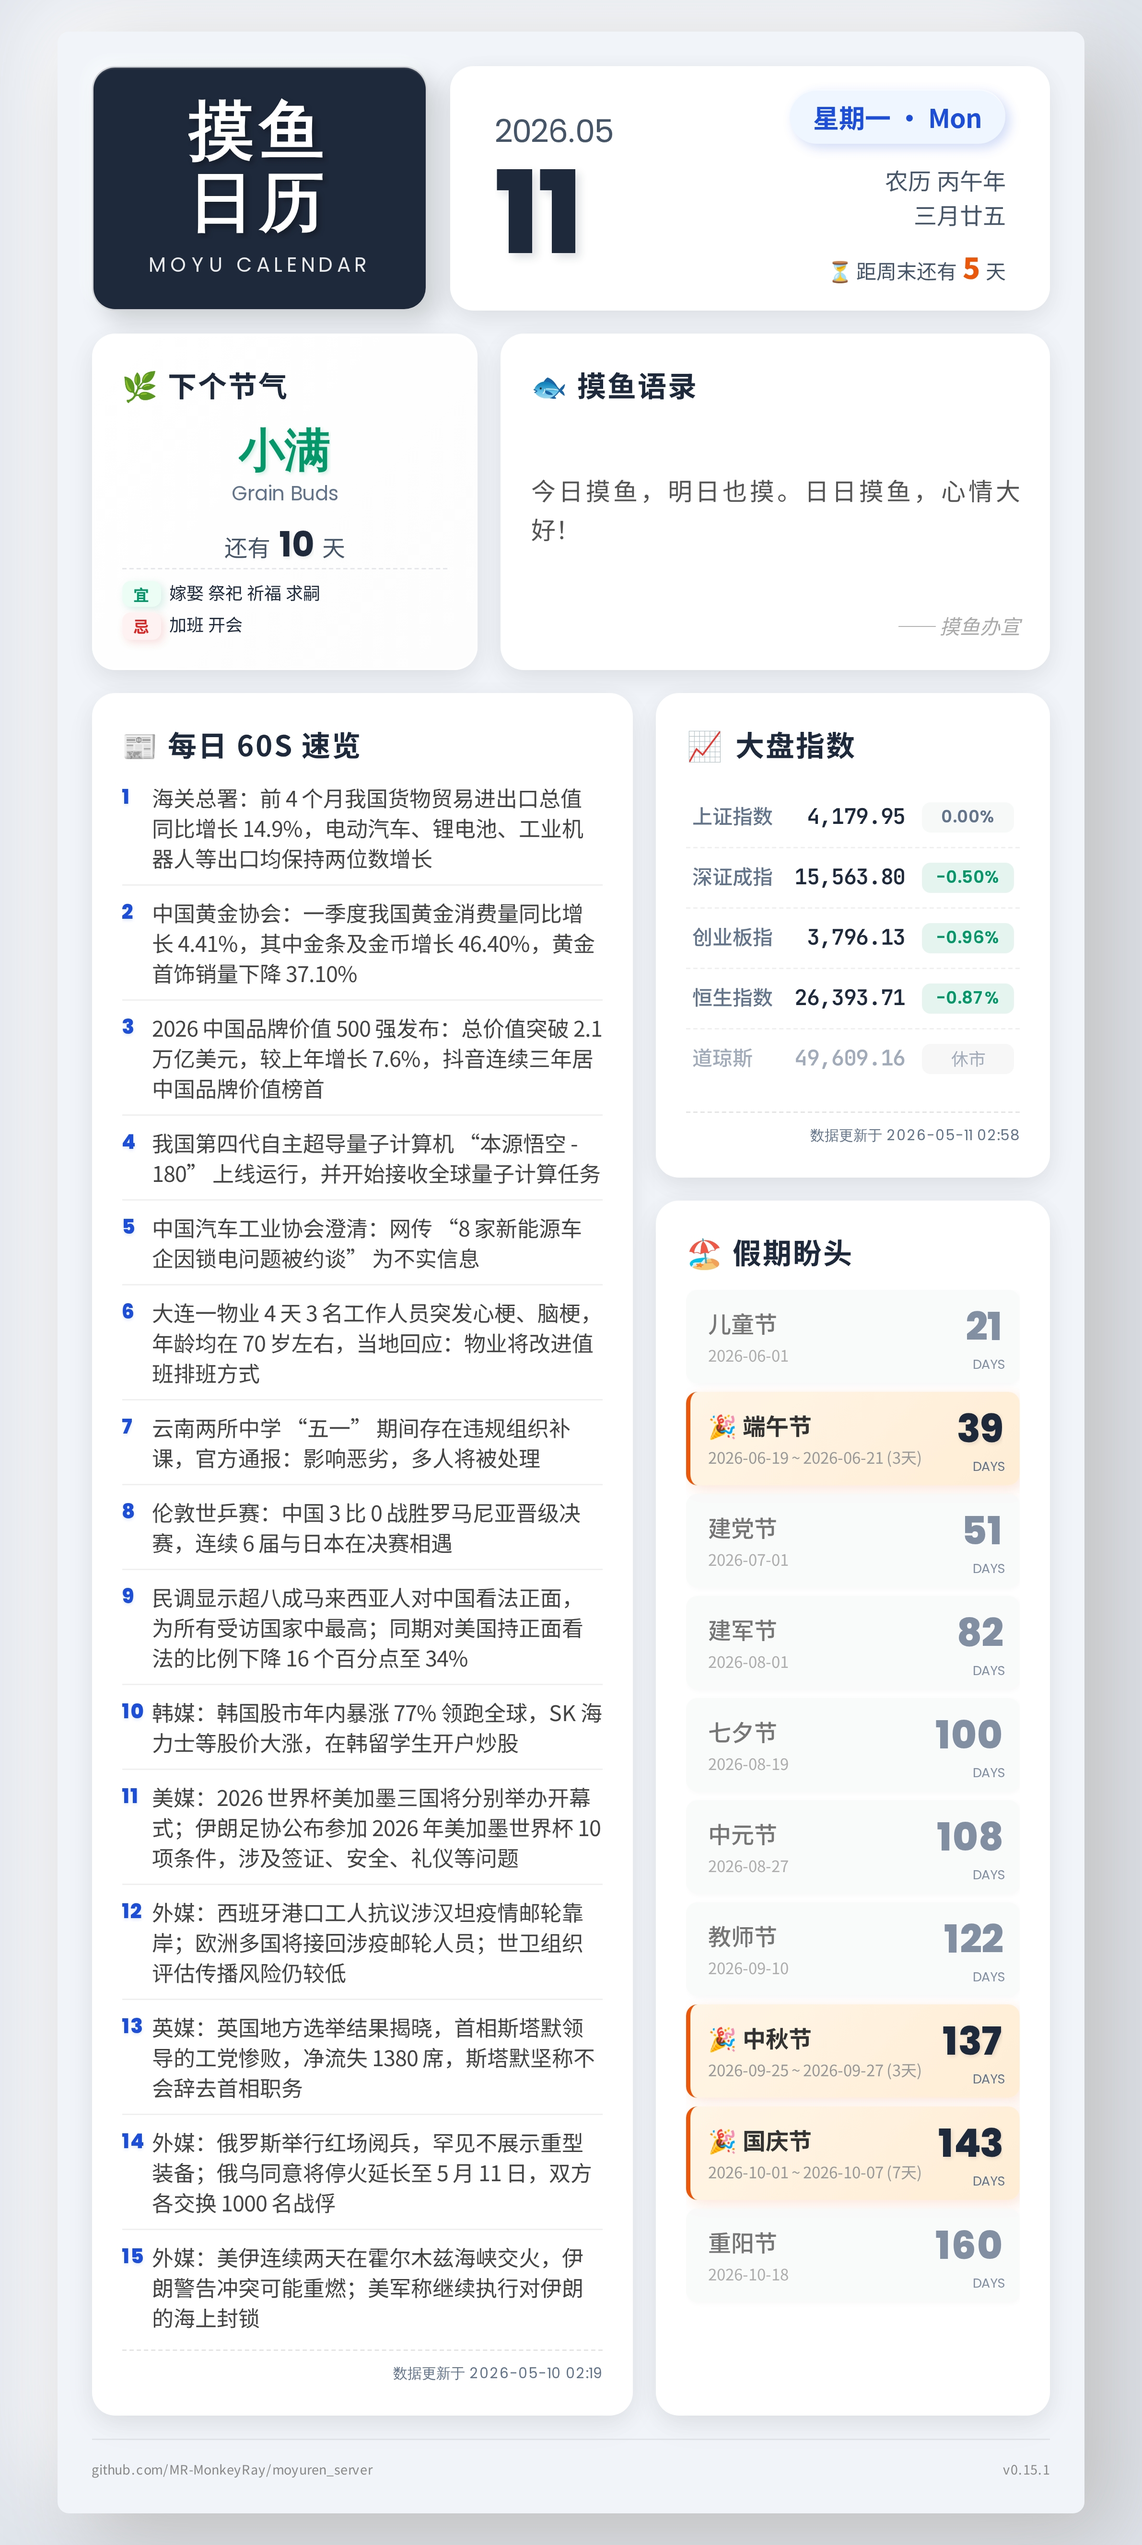
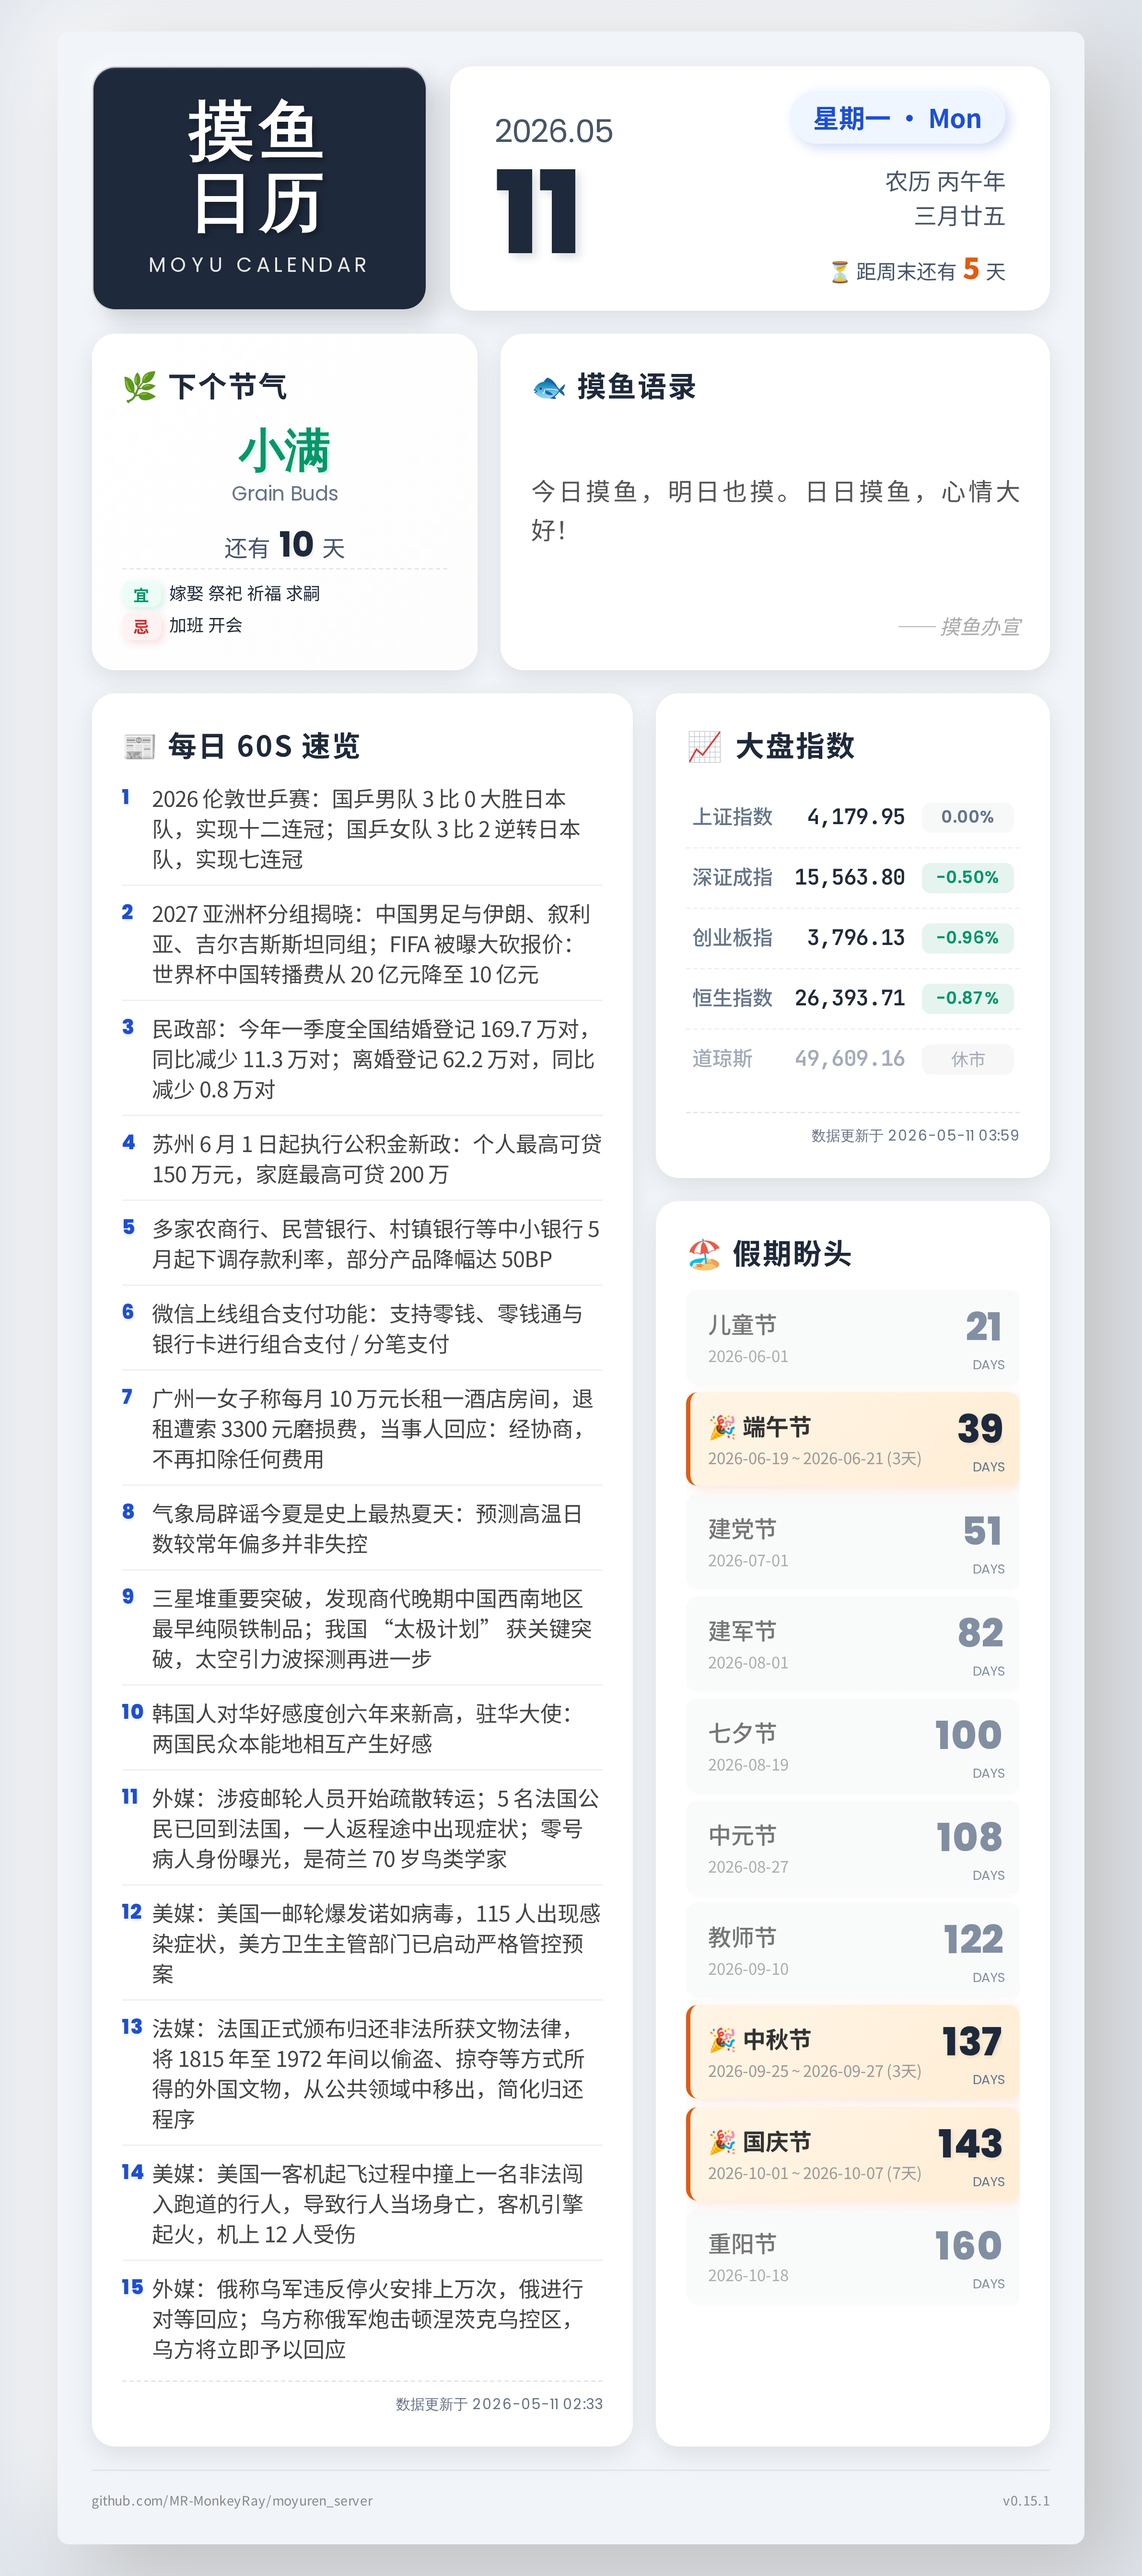
chore: publish 2026-05-11 (efec0ba)

diff --git a/2026-05-11/data.md b/2026-05-11/data.md
@@ -19,24 +19,24 @@
 
 ## 今日热点
 
-1. 海关总署：前 4 个月我国货物贸易进出口总值同比增长 14.9%，电动汽车、锂电池、工业机器人等出口均保持两位数增长
-2. 中国黄金协会：一季度我国黄金消费量同比增长 4.41%，其中金条及金币增长 46.40%，黄金首饰销量下降 37.10%
-3. 2026 中国品牌价值 500 强发布：总价值突破 2.1 万亿美元，较上年增长 7.6%，抖音连续三年居中国品牌价值榜首
-4. 我国第四代自主超导量子计算机 “本源悟空 - 180” 上线运行，并开始接收全球量子计算任务
-5. 中国汽车工业协会澄清：网传 “8 家新能源车企因锁电问题被约谈” 为不实信息
-6. 大连一物业 4 天 3 名工作人员突发心梗、脑梗，年龄均在 70 岁左右，当地回应：物业将改进值班排班方式
-7. 云南两所中学 “五一” 期间存在违规组织补课，官方通报：影响恶劣，多人将被处理
-8. 伦敦世乒赛：中国 3 比 0 战胜罗马尼亚晋级决赛，连续 6 届与日本在决赛相遇
-9. 民调显示超八成马来西亚人对中国看法正面，为所有受访国家中最高；同期对美国持正面看法的比例下降 16 个百分点至 34%
-10. 韩媒：韩国股市年内暴涨 77% 领跑全球，SK 海力士等股价大涨，在韩留学生开户炒股
-11. 美媒：2026 世界杯美加墨三国将分别举办开幕式；伊朗足协公布参加 2026 年美加墨世界杯 10 项条件，涉及签证、安全、礼仪等问题
-12. 外媒：西班牙港口工人抗议涉汉坦疫情邮轮靠岸；欧洲多国将接回涉疫邮轮人员；世卫组织评估传播风险仍较低
-13. 英媒：英国地方选举结果揭晓，首相斯塔默领导的工党惨败，净流失 1380 席，斯塔默坚称不会辞去首相职务
-14. 外媒：俄罗斯举行红场阅兵，罕见不展示重型装备；俄乌同意将停火延长至 5 月 11 日，双方各交换 1000 名战俘
-15. 外媒：美伊连续两天在霍尔木兹海峡交火，伊朗警告冲突可能重燃；美军称继续执行对伊朗的海上封锁
+1. 2026 伦敦世乒赛：国乒男队 3 比 0 大胜日本队，实现十二连冠；国乒女队 3 比 2 逆转日本队，实现七连冠
+2. 2027 亚洲杯分组揭晓：中国男足与伊朗、叙利亚、吉尔吉斯斯坦同组；FIFA 被曝大砍报价：世界杯中国转播费从 20 亿元降至 10 亿元
+3. 民政部：今年一季度全国结婚登记 169.7 万对，同比减少 11.3 万对；离婚登记 62.2 万对，同比减少 0.8 万对
+4. 苏州 6 月 1 日起执行公积金新政：个人最高可贷 150 万元，家庭最高可贷 200 万
+5. 多家农商行、民营银行、村镇银行等中小银行 5 月起下调存款利率，部分产品降幅达 50BP
+6. 微信上线组合支付功能：支持零钱、零钱通与银行卡进行组合支付 / 分笔支付
+7. 广州一女子称每月 10 万元长租一酒店房间，退租遭索 3300 元磨损费，当事人回应：经协商，不再扣除任何费用
+8. 气象局辟谣今夏是史上最热夏天：预测高温日数较常年偏多并非失控
+9. 三星堆重要突破，发现商代晚期中国西南地区最早纯陨铁制品；我国 “太极计划” 获关键突破，太空引力波探测再进一步
+10. 韩国人对华好感度创六年来新高，驻华大使：两国民众本能地相互产生好感
+11. 外媒：涉疫邮轮人员开始疏散转运；5 名法国公民已回到法国，一人返程途中出现症状；零号病人身份曝光，是荷兰 70 岁鸟类学家
+12. 美媒：美国一邮轮爆发诺如病毒，115 人出现感染症状，美方卫生主管部门已启动严格管控预案
+13. 法媒：法国正式颁布归还非法所获文物法律，将 1815 年至 1972 年间以偷盗、掠夺等方式所得的外国文物，从公共领域中移出，简化归还程序
+14. 美媒：美国一客机起飞过程中撞上一名非法闯入跑道的行人，导致行人当场身亡，客机引擎起火，机上 12 人受伤
+15. 外媒：俄称乌军违反停火安排上万次，俄进行对等回应；乌方称俄军炮击顿涅茨克乌控区，乌方将立即予以回应
 
 > **🐟 摸鱼语录**
 >
 > 今日摸鱼，明日也摸。日日摸鱼，心情大好！
 
-*更新时间: 2026/05/11 02:58:06*
+*更新时间: 2026/05/11 03:59:43*

diff --git a/latest.md b/latest.md
@@ -19,24 +19,24 @@
 
 ## 今日热点
 
-1. 海关总署：前 4 个月我国货物贸易进出口总值同比增长 14.9%，电动汽车、锂电池、工业机器人等出口均保持两位数增长
-2. 中国黄金协会：一季度我国黄金消费量同比增长 4.41%，其中金条及金币增长 46.40%，黄金首饰销量下降 37.10%
-3. 2026 中国品牌价值 500 强发布：总价值突破 2.1 万亿美元，较上年增长 7.6%，抖音连续三年居中国品牌价值榜首
-4. 我国第四代自主超导量子计算机 “本源悟空 - 180” 上线运行，并开始接收全球量子计算任务
-5. 中国汽车工业协会澄清：网传 “8 家新能源车企因锁电问题被约谈” 为不实信息
-6. 大连一物业 4 天 3 名工作人员突发心梗、脑梗，年龄均在 70 岁左右，当地回应：物业将改进值班排班方式
-7. 云南两所中学 “五一” 期间存在违规组织补课，官方通报：影响恶劣，多人将被处理
-8. 伦敦世乒赛：中国 3 比 0 战胜罗马尼亚晋级决赛，连续 6 届与日本在决赛相遇
-9. 民调显示超八成马来西亚人对中国看法正面，为所有受访国家中最高；同期对美国持正面看法的比例下降 16 个百分点至 34%
-10. 韩媒：韩国股市年内暴涨 77% 领跑全球，SK 海力士等股价大涨，在韩留学生开户炒股
-11. 美媒：2026 世界杯美加墨三国将分别举办开幕式；伊朗足协公布参加 2026 年美加墨世界杯 10 项条件，涉及签证、安全、礼仪等问题
-12. 外媒：西班牙港口工人抗议涉汉坦疫情邮轮靠岸；欧洲多国将接回涉疫邮轮人员；世卫组织评估传播风险仍较低
-13. 英媒：英国地方选举结果揭晓，首相斯塔默领导的工党惨败，净流失 1380 席，斯塔默坚称不会辞去首相职务
-14. 外媒：俄罗斯举行红场阅兵，罕见不展示重型装备；俄乌同意将停火延长至 5 月 11 日，双方各交换 1000 名战俘
-15. 外媒：美伊连续两天在霍尔木兹海峡交火，伊朗警告冲突可能重燃；美军称继续执行对伊朗的海上封锁
+1. 2026 伦敦世乒赛：国乒男队 3 比 0 大胜日本队，实现十二连冠；国乒女队 3 比 2 逆转日本队，实现七连冠
+2. 2027 亚洲杯分组揭晓：中国男足与伊朗、叙利亚、吉尔吉斯斯坦同组；FIFA 被曝大砍报价：世界杯中国转播费从 20 亿元降至 10 亿元
+3. 民政部：今年一季度全国结婚登记 169.7 万对，同比减少 11.3 万对；离婚登记 62.2 万对，同比减少 0.8 万对
+4. 苏州 6 月 1 日起执行公积金新政：个人最高可贷 150 万元，家庭最高可贷 200 万
+5. 多家农商行、民营银行、村镇银行等中小银行 5 月起下调存款利率，部分产品降幅达 50BP
+6. 微信上线组合支付功能：支持零钱、零钱通与银行卡进行组合支付 / 分笔支付
+7. 广州一女子称每月 10 万元长租一酒店房间，退租遭索 3300 元磨损费，当事人回应：经协商，不再扣除任何费用
+8. 气象局辟谣今夏是史上最热夏天：预测高温日数较常年偏多并非失控
+9. 三星堆重要突破，发现商代晚期中国西南地区最早纯陨铁制品；我国 “太极计划” 获关键突破，太空引力波探测再进一步
+10. 韩国人对华好感度创六年来新高，驻华大使：两国民众本能地相互产生好感
+11. 外媒：涉疫邮轮人员开始疏散转运；5 名法国公民已回到法国，一人返程途中出现症状；零号病人身份曝光，是荷兰 70 岁鸟类学家
+12. 美媒：美国一邮轮爆发诺如病毒，115 人出现感染症状，美方卫生主管部门已启动严格管控预案
+13. 法媒：法国正式颁布归还非法所获文物法律，将 1815 年至 1972 年间以偷盗、掠夺等方式所得的外国文物，从公共领域中移出，简化归还程序
+14. 美媒：美国一客机起飞过程中撞上一名非法闯入跑道的行人，导致行人当场身亡，客机引擎起火，机上 12 人受伤
+15. 外媒：俄称乌军违反停火安排上万次，俄进行对等回应；乌方称俄军炮击顿涅茨克乌控区，乌方将立即予以回应
 
 > **🐟 摸鱼语录**
 >
 > 今日摸鱼，明日也摸。日日摸鱼，心情大好！
 
-*更新时间: 2026/05/11 02:58:06*
+*更新时间: 2026/05/11 03:59:43*
